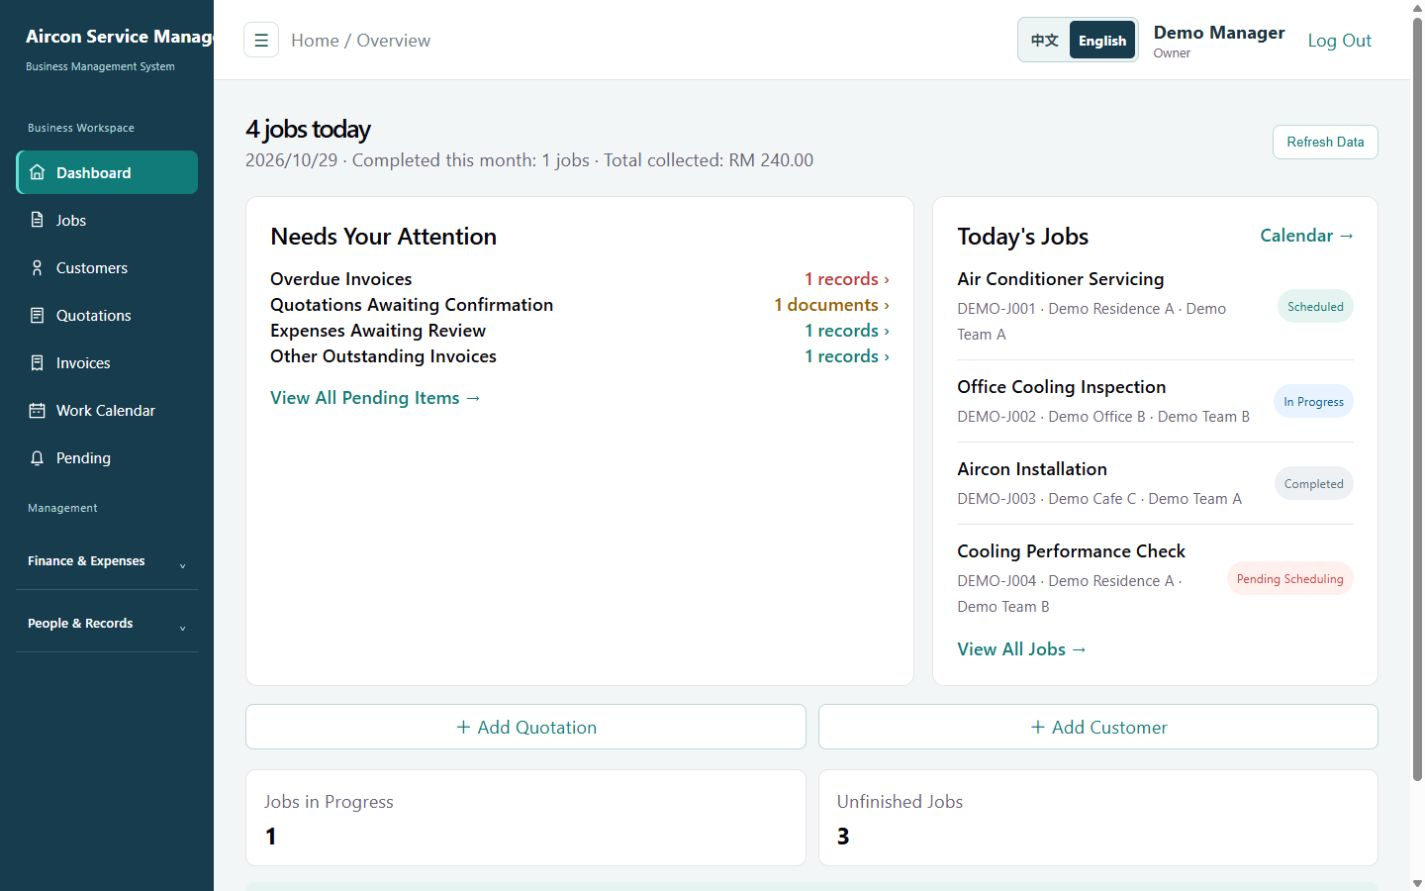
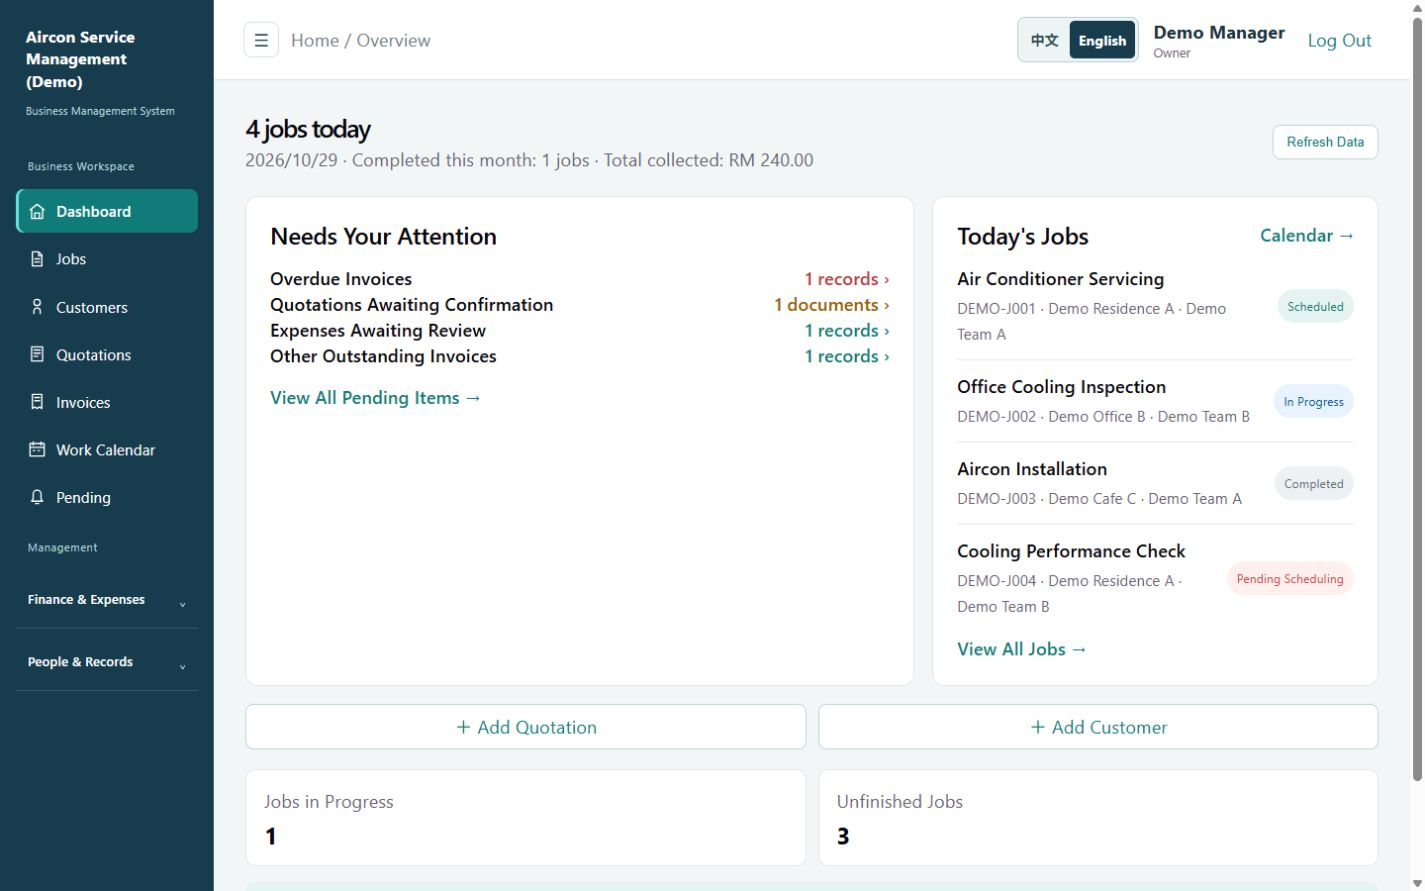
Improve sidebar navigation and refresh portfolio screenshots

diff --git a/frontend/src/components/Sidebar.tsx b/frontend/src/components/Sidebar.tsx
@@ -38,7 +38,19 @@ export function Sidebar({ role }: { role: UserRole }) {
     <nav aria-label={t("主要导航")}>
       <div className="sidebar-direct-links">{role !== 'employee' && <span className="sidebar-section-label">{t("业务工作台")}</span>}{items.map(item => <NavLink key={item.path} to={item.path} end={item.path === '/'}><NavigationIcon path={item.path} /><span>{t(item.label)}</span></NavLink>)}</div>
       {role !== 'employee' && <span className="sidebar-section-label">{t("管理")}</span>}
-      {role !== 'employee' && navigationGroups.map(group => <details key={`${group.label}-${pathname}`} open={group.items.some(item => pathname === item.path || pathname.startsWith(`${item.path}/`))}>
+      {role !== 'employee' && navigationGroups.map(group => <details key={`${group.label}-${pathname}`} open={group.items.some(item => pathname === item.path || pathname.startsWith(`${item.path}/`))} onToggle={event => {
+        const groupElement = event.currentTarget
+        if (!groupElement.open) return
+        const sidebar = groupElement.closest<HTMLElement>('.sidebar')
+        if (!sidebar) return
+        const sidebarBounds = sidebar.getBoundingClientRect()
+        const groupBounds = groupElement.getBoundingClientRect()
+        const offset = groupBounds.top - sidebarBounds.top - 16
+        if (offset !== 0) sidebar.scrollBy({
+          top: offset,
+          behavior: window.matchMedia('(prefers-reduced-motion: reduce)').matches ? 'instant' : 'smooth',
+        })
+      }}>
         <summary>{t(group.label)}</summary>
         <div className="nav-group-items">{group.items.map(item => <NavLink to={item.path} key={item.path}>{t(item.label)}</NavLink>)}</div>
       </details>)}

diff --git a/frontend/src/App.css b/frontend/src/App.css
@@ -46,7 +46,9 @@ main>section {
 }
 
 .brand {
-  margin: 2px 10px 30px;
+  margin: 2px 10px 24px;
+  white-space: normal;
+  overflow-wrap: anywhere;
 }
 
 .brand strong,
@@ -55,8 +57,8 @@ main>section {
 }
 
 .brand strong {
-  font-size: 18px;
-  line-height: 1.2;
+  font-size: 16px;
+  line-height: 1.4;
 }
 
 .brand small {
@@ -2651,9 +2653,15 @@ input[type="date"] {
 @media (min-width: 751px) {
   .sidebar {
     position: sticky;
+    align-self: start;
     top: 0;
     height: 100vh;
     overflow-y: auto;
+    scrollbar-width: none;
+  }
+
+  .sidebar::-webkit-scrollbar {
+    display: none;
   }
 
   .job-photos-embedded .job-photo-gallery {

diff --git a/README.md b/README.md
@@ -99,7 +99,7 @@ In development, Vite proxies API requests to ASP.NET Core. The backend uses repo
 
 These screenshots show the actual frontend with the demo brand and fictional records supplied by a local, read-only mock API. No database was connected during capture. They illustrate the user interface, not end-to-end backend integration validation.
 
-Screenshots use a 1440-pixel-wide desktop viewport, normally 900 pixels high. The quotation detail uses a taller viewport and the invoice editor uses a full-page capture to show their contents. Text in the images has not been digitally replaced.
+All screenshots use a fixed 1440 × 900 desktop viewport with full-page capture disabled, preserving the sidebar position. List and overview states keep the business information visible without open edit forms. Text in the images has not been digitally replaced.
 
 ### Dashboard
 
@@ -115,12 +115,6 @@ It also provides search, filtering, and sorting capabilities to help users manag
 
 ![Demo Job Management](docs/screenshots/jobs.jpg)
 
-
-### Quotation Details
-
-Review quotation line items, totals and acceptance status, then create a related invoice or service job. The detail view also supports customer-returned PDF attachments.
-
-![Quotation details with synthetic portfolio data](docs/screenshots/quotation-details.jpg)
 
 ### Customers Management
 
@@ -139,12 +133,6 @@ Track quotation totals and confirmation status, with search, date filters and a 
 Review invoice amounts, due dates and payment status across customer accounts.
 
 ![Invoices list](docs/screenshots/invoices-list.jpg)
-
-### Invoice Details / Edit View
-
-The invoice edit view contains customer, due date, payment status, notes and line-item fields. This screenshot shows an existing fictional invoice; no changes were saved during capture.
-
-![Invoice details in the edit view](docs/screenshots/invoice-details.jpg)
 
 ### Expenses / Reimbursements
 
